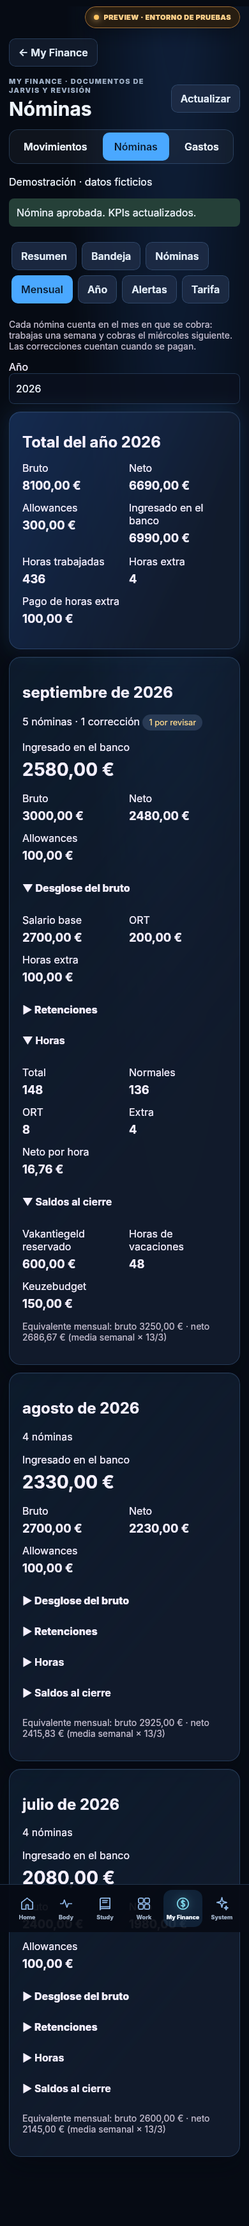
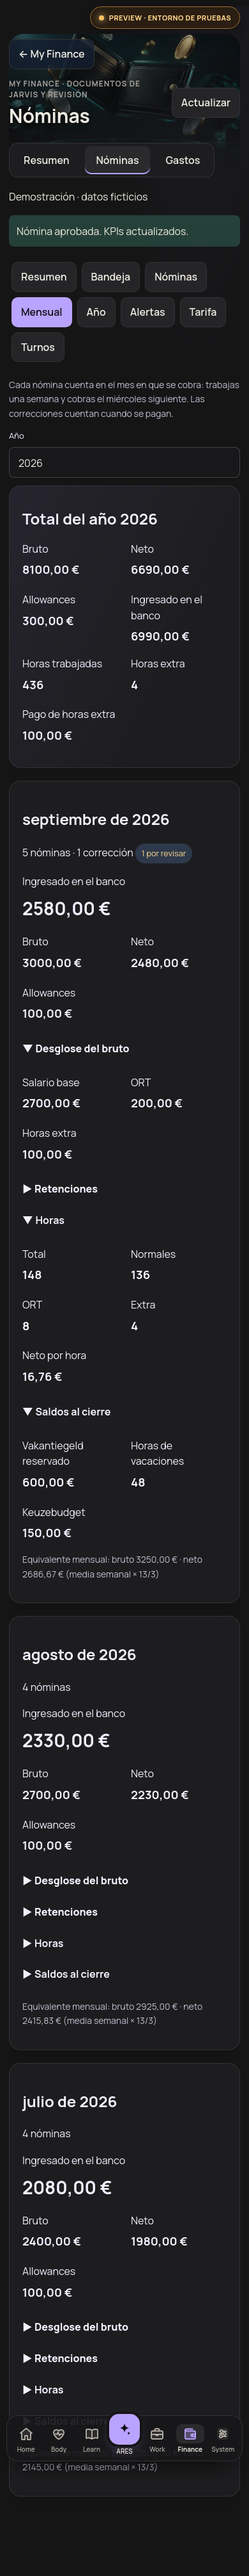
[claude] 2.40.0: salir de Ares fácil en el móvil y microapps con más aire
- Ares AI (móvil): botón "Salir" grande a la izquierda, cabecera bajo la barra de
  estado del iPhone (safe-area), barra inferior visible encima del chat, botón
  central como interruptor (aria-expanded) y la barra cierra Ares al cambiar de
  sección. Con teclado abierto la barra se oculta. ✕, Escape y atrás se mantienen.
- Nueva capa assets/rise-microapps-air.css (solo la microapp abierta): tarjetas
  20/28 px, textos >= 12 px, botones 44 px, campos 48 px a 16 px.
- E2E nuevo tests/e2e/ares-mobile-exit.mjs en CI. Caché v42-ares-air.

Claude-Session: https://claude.ai/code/session_015k3DX1NmMNurpEp6aoLjt2

diff --git a/microapps/ares-ai.js b/microapps/ares-ai.js
@@ -30,7 +30,7 @@ const node=(tag,cls,value)=>{const n=document.createElement(tag);if(cls)n.classN
 export function mountAresAI({supabase,getUser,navigate}){
  const launch=node("button","ares-fab","✧  Ares AI");launch.type="button";launch.hidden=true;launch.setAttribute("aria-label","Hablar con Ares AI");
  const panel=node("section","ares-chat");panel.hidden=true;panel.setAttribute("role","dialog");panel.setAttribute("aria-modal","true");panel.setAttribute("aria-label","Ares AI");
- panel.innerHTML='<header class="ares-chat-head"><div class="ares-avatar">✧</div><div><strong>Ares AI</strong><small>Tu asistente personal de RISE HUB</small></div><button type="button" class="ares-close" aria-label="Cerrar Ares AI">✕</button></header><div class="ares-chat-stream" role="log" aria-live="polite"></div><div class="ares-chat-suggestions"><button type="button" data-suggest="¿Cómo van mis proyectos?">Proyectos</button><button type="button" data-suggest="¿Qué tareas tengo pendientes?">Mis tareas</button><button type="button" data-suggest="¿Qué debo aprobar?">Aprobaciones</button><button type="button" data-suggest="¿Qué han hecho mis agentes?">Agentes</button><button type="button" data-suggest="¿En qué fase de desarrollo está RISE HUB?">Estado de desarrollo</button></div><form class="ares-chat-form"><label class="ares-sr" for="aresQuestion">Escribe a Ares AI</label><textarea id="aresQuestion" maxlength="500" rows="1" placeholder="Pregunta lo que quieras de tu Hub…" aria-label="Tu mensaje"></textarea><button type="submit" aria-label="Enviar">↑</button></form><p class="ares-chat-foot">Respuestas basadas en tu Hub · Sin IA generativa externa</p>';
+ panel.innerHTML='<header class="ares-chat-head"><button type="button" class="ares-back" aria-label="Salir de Ares AI"><span aria-hidden="true">←</span><span class="ares-back-text">Salir</span></button><div class="ares-avatar">✧</div><div><strong>Ares AI</strong><small>Tu asistente personal de RISE HUB</small></div><button type="button" class="ares-close" aria-label="Cerrar Ares AI">✕</button></header><div class="ares-chat-stream" role="log" aria-live="polite"></div><div class="ares-chat-suggestions"><button type="button" data-suggest="¿Cómo van mis proyectos?">Proyectos</button><button type="button" data-suggest="¿Qué tareas tengo pendientes?">Mis tareas</button><button type="button" data-suggest="¿Qué debo aprobar?">Aprobaciones</button><button type="button" data-suggest="¿Qué han hecho mis agentes?">Agentes</button><button type="button" data-suggest="¿En qué fase de desarrollo está RISE HUB?">Estado de desarrollo</button></div><form class="ares-chat-form"><label class="ares-sr" for="aresQuestion">Escribe a Ares AI</label><textarea id="aresQuestion" maxlength="500" rows="1" placeholder="Pregunta lo que quieras de tu Hub…" aria-label="Tu mensaje"></textarea><button type="submit" aria-label="Enviar">↑</button></form><p class="ares-chat-foot">Respuestas basadas en tu Hub · Sin IA generativa externa</p>';
  document.body.append(launch,panel);
  const stream=panel.querySelector(".ares-chat-stream"),input=panel.querySelector("textarea"),form=panel.querySelector("form");
  let owner=null,topic="",generation=0,busy=false,isOpen=false,aiEnabled=false,returnFocus=null;
@@ -39,13 +39,15 @@ export function mountAresAI({supabase,getUser,navigate}){
  function clear(){generation++;stream.replaceChildren();topic="";busy=false;input.value="";form.querySelector('[type="submit"]').disabled=false;}
  async function checkAI(){try{const res=await fetch("/api/ares-ai",{cache:"no-store",signal:AbortSignal.timeout(5000)});const data=res.ok?await res.json():{};aiEnabled=data.enabled===true;foot.textContent=aiEnabled?"OpenRouter/free activado · solo nombres y estados seleccionados de proyectos/tareas":"Consultas privadas sin IA externa · sin envío de datos a modelos externos";}catch{aiEnabled=false;foot.textContent="Consultas locales de tus registros";}}
  function setSession(){const id=getUser()?.id||null;if(id!==owner){owner=id;clear();}launch.hidden=!id;if(!id){panel.hidden=true;isOpen=false;document.body.classList.remove("ares-chat-open");}}
- function open(){setSession();if(!owner)return;if(!isOpen)returnFocus=document.activeElement;void checkAI();panel.hidden=false;isOpen=true;document.body.classList.add("ares-chat-open");fitViewport();if(!history.state?.aresChat)history.pushState({...(history.state||{}),aresChat:true},"");if(!stream.children.length)bubble("bot","Hola, soy Ares AI. Puedo consultar tus proyectos, tareas, revisiones y agentes a partir de los registros reales de RISE HUB. ¿Qué quieres saber?");if(!touch())input.focus();}
- function close({fromHistory=false}={}){if(!isOpen&&panel.hidden)return;if(panel.contains(document.activeElement))document.activeElement.blur();panel.hidden=true;isOpen=false;document.body.classList.remove("ares-chat-open");panel.style.removeProperty("height");panel.style.removeProperty("top");if(!fromHistory&&history.state?.aresChat)history.back();if(!touch()){const target=[returnFocus,document.querySelector('#bottomNav [data-open="ares-center"]'),launch].find(el=>el instanceof HTMLElement&&el!==document.body&&el.getClientRects().length&&getComputedStyle(el).visibility!=="hidden");target?.focus();}returnFocus=null;}
+ function open(){setSession();if(!owner)return;if(!isOpen)returnFocus=document.activeElement;void checkAI();panel.hidden=false;isOpen=true;document.body.classList.add("ares-chat-open");syncNav();fitViewport();if(!history.state?.aresChat)history.pushState({...(history.state||{}),aresChat:true},"");if(!stream.children.length)bubble("bot","Hola, soy Ares AI. Puedo consultar tus proyectos, tareas, revisiones y agentes a partir de los registros reales de RISE HUB. ¿Qué quieres saber?");if(!touch())input.focus();}
+ function close({fromHistory=false}={}){if(!isOpen&&panel.hidden)return;if(panel.contains(document.activeElement))document.activeElement.blur();panel.hidden=true;isOpen=false;document.body.classList.remove("ares-chat-open","ares-kb");syncNav();panel.style.removeProperty("height");panel.style.removeProperty("top");if(!fromHistory&&history.state?.aresChat)history.back();if(!touch()){const target=[returnFocus,document.querySelector('#bottomNav [data-open="ares-center"]'),launch].find(el=>el instanceof HTMLElement&&el!==document.body&&el.getClientRects().length&&getComputedStyle(el).visibility!=="hidden");target?.focus();}returnFocus=null;}
  // Móvil: sin foco automático (el teclado tapaba la cabecera y el botón de cerrar al terminar una respuesta),
  // el panel se ajusta al área visible cuando aparece el teclado y el gesto/botón "atrás" cierra el chat.
  function touch(){return matchMedia("(pointer:coarse)").matches;}
- function fitViewport(){const vv=window.visualViewport;if(!vv||!isOpen||!matchMedia("(max-width:650px)").matches){panel.style.removeProperty("height");panel.style.removeProperty("top");return;}panel.style.height=vv.height+"px";panel.style.top=vv.offsetTop+"px";}
- window.visualViewport?.addEventListener("resize",fitViewport);window.visualViewport?.addEventListener("scroll",fitViewport);
+ function navSpace(keyboard){const nav=document.getElementById("bottomNav");if(keyboard||!nav||nav.classList.contains("hidden"))return 0;const r=nav.getBoundingClientRect();return r.height?Math.max(0,Math.round(innerHeight-r.top+8)):0;}
+ // Móvil: la barra inferior sigue visible debajo del chat (su botón central lo cierra); con el teclado abierto se oculta.
+ function fitViewport(){const vv=window.visualViewport;const mobile=matchMedia("(max-width:650px)").matches;if(!isOpen||!mobile){panel.style.removeProperty("height");panel.style.removeProperty("top");document.body.classList.remove("ares-kb");return;}const h=vv?vv.height:innerHeight;const keyboard=h<innerHeight*0.75;document.body.classList.toggle("ares-kb",keyboard);panel.style.height=Math.max(240,h-navSpace(keyboard))+"px";panel.style.top=(vv?vv.offsetTop:0)+"px";}
+ window.visualViewport?.addEventListener("resize",fitViewport);window.visualViewport?.addEventListener("scroll",fitViewport);window.addEventListener("resize",fitViewport);
  window.addEventListener("popstate",()=>{if(isOpen)close({fromHistory:true});});
  function reset(){owner=null;clear();panel.hidden=true;launch.hidden=true;isOpen=false;document.body.classList.remove("ares-chat-open");}
  async function records(){const id=owner;if(!id||id!==getUser()?.id)throw Error("Inicia sesión para preguntar.");const {data,error}=await supabase.from("hub_records").select("id,domain,record_type,title,status,occurred_at,payload,source,requires_review").eq("owner_id",id).in("record_type",ARES_QUERY_TYPES).order("occurred_at",{ascending:false}).limit(500);if(error)throw Error("La consulta privada ha fallado: "+error.message);if(id!==getUser()?.id)throw Error("La sesión ha cambiado.");return data||[];}
@@ -107,10 +109,12 @@ export function mountAresAI({supabase,getUser,navigate}){
    }
   }catch(e){bubble("bot","No he podido realizar la acción: "+String(e.message||e));button.disabled=false;}
  }
- launch.addEventListener("click",open);panel.querySelector(".ares-close").addEventListener("click",()=>close());
+ launch.addEventListener("click",open);panel.querySelector(".ares-close").addEventListener("click",()=>close());panel.querySelector(".ares-back").addEventListener("click",()=>close());
  panel.querySelectorAll("[data-suggest]").forEach(b=>b.addEventListener("click",()=>void send(b.dataset.suggest)));
  form.addEventListener("submit",e=>{e.preventDefault();void send(input.value);});
  input.addEventListener("keydown",e=>{if(e.key==="Enter"&&!e.shiftKey){e.preventDefault();form.requestSubmit();}});
  window.addEventListener("keydown",e=>{if(e.key==="Escape"&&isOpen)close();if((e.metaKey||e.ctrlKey)&&e.key.toLowerCase()==="k"&&owner){e.preventDefault();isOpen?close():open();}});
- return {open,close,reset,setSession,send};
+ function syncNav(){const b=document.querySelector('#bottomNav [data-open="ares-center"]');if(!b)return;b.setAttribute("aria-expanded",String(isOpen));b.setAttribute("aria-label",isOpen?"Ocultar Ares AI":"Abrir Ares AI");}
+ function toggle(){isOpen?close():open();}
+ return {open,close,toggle,isOpen:()=>isOpen,reset,setSession,send};
 }

diff --git a/sw.js b/sw.js
@@ -1,5 +1,5 @@
-const CACHE='renzo-hub-cloud-v41-unified';
-const CORE=['/microapps/registry.js','/microapps/personal-context.js','/microapps/home/body-summary.js','/microapps/finance/goals-panel.js','/microapps/finance/goals.js','/microapps/finance/networth-panel.js','/microapps/finance/networth.js','/microapps/payroll/balance-import.js','/microapps/payroll/amsterdam-time.js','/microapps/payroll/dst-timeline.js','/microapps/payroll/shifts.js','/microapps/payroll/shift-tracker.js','/microapps/payroll/shift-schedule.js','/microapps/payroll/shift-extras.js','/microapps/payroll/weekly-pay.js','/assets/shift-tracker.css','/microapps/work/roadmap.js','/assets/rise-roadmap.css','/microapps/selflearn/selflearn.css','/microapps/selflearn/engine.js','/microapps/selflearn/view.js','/microapps/selflearn/courses/nl.js','/microapps/selflearn/courses/en.js','/microapps/selflearn/fsrs-entry.js','/microapps/selflearn/fsrs-bundle.js','/microapps/ares-ai.js','/microapps/ares-development.js','/assets/ares-chat.css','/microapps/ares-center/ares.js','/microapps/ares-center/ares.css','/microapps/finance/summary.js','/microapps/finance/insights.js','/microapps/finance/data.js','/microapps/finance/fixed.js','/microapps/finance/income.js','/microapps/finance/income-panel.js','/microapps/finance/budget.js','/microapps/finance/finance.css','/microapps/gastos/gastos.js','/microapps/gastos/categories.js','/microapps/gastos/gastos.css','/microapps/records.js','/microapps/xp-store.js','/microapps/ui.js','/microapps/errors.js','/microapps/backup/export.js','/microapps/skin/skin.js','/microapps/skin/inventory.js','/microapps/skin/photos.js','/microapps/notes/notes.js','/microapps/bank/ing-csv.js','/microapps/bank/bank-import-ui.js','/microapps/bank/revolut.js','/payroll.js','/payroll-upload-ui.js','/payroll-pdf.js','/payroll.css','/payroll-demo.js','/','/app.js','/profile.js','/phase1.js','/gym.js','/microapps/gym/insights.js','/microapps/gym/trends.js','/microapps/gym/body-map.js','/microapps/gym/shift-planner.js','/microapps/gym/unilateral.js','/microapps/gym/recovery.js','/microapps/gym/quick-set.js','/microapps/gym/plan-editor.js','/microapps/gym/goals.js','/microapps/gym/measurements.js','/microapps/gym/progression.js','/microapps/gym/ranks.js','/microapps/gym/exercise-info.js','/microapps/gym/rest-timer.js','/microapps/gym/onboarding.js','/microapps/gym/progress-photos.js','/microapps/gym/photos-view.js','/microapps/gym/onboarding-view.js','/microapps/gym/coach.js','/microapps/gym/wake-lock.js','/assets/gym-ascend.css','/news.js','/world.js','/world-extensions.js','/jarvis-ui.js','/manifest.webmanifest','/release.json','/assets/rise-theme.css','/assets/rise-home.css','/assets/rise-covers.css','/assets/rise/area-dutch-v1.webp','/assets/rise/area-finance-v1.webp','/assets/rise/area-logistics-v1.webp','/assets/rise/area-nutrition-v1.webp','/assets/rise/area-productivity-v1.webp','/assets/rise/area-skincare-v1.webp','/assets/rise/area-training-v1.webp','/assets/rise-monogram-v2.svg','/assets/rise-editorial.css','/microapps/command/palette.js','/assets/fonts/manrope-latin-v1.woff2','/assets/fonts/manrope-latin-ext-v1.woff2','/assets/rise-favicon-48-v2.png','/assets/rise-icon-180-v2.png','/assets/rise-icon-192-v2.png','/assets/rise-icon-512-v2.png','/assets/rise-icon-512-maskable-v2.png','/assets/rise/editorial-v2.jpg'];
+const CACHE='renzo-hub-cloud-v42-ares-air';
+const CORE=['/microapps/registry.js','/microapps/personal-context.js','/microapps/home/body-summary.js','/microapps/finance/goals-panel.js','/microapps/finance/goals.js','/microapps/finance/networth-panel.js','/microapps/finance/networth.js','/microapps/payroll/balance-import.js','/microapps/payroll/amsterdam-time.js','/microapps/payroll/dst-timeline.js','/microapps/payroll/shifts.js','/microapps/payroll/shift-tracker.js','/microapps/payroll/shift-schedule.js','/microapps/payroll/shift-extras.js','/microapps/payroll/weekly-pay.js','/assets/shift-tracker.css','/microapps/work/roadmap.js','/assets/rise-roadmap.css','/microapps/selflearn/selflearn.css','/microapps/selflearn/engine.js','/microapps/selflearn/view.js','/microapps/selflearn/courses/nl.js','/microapps/selflearn/courses/en.js','/microapps/selflearn/fsrs-entry.js','/microapps/selflearn/fsrs-bundle.js','/microapps/ares-ai.js','/microapps/ares-development.js','/assets/ares-chat.css','/microapps/ares-center/ares.js','/microapps/ares-center/ares.css','/microapps/finance/summary.js','/microapps/finance/insights.js','/microapps/finance/data.js','/microapps/finance/fixed.js','/microapps/finance/income.js','/microapps/finance/income-panel.js','/microapps/finance/budget.js','/microapps/finance/finance.css','/microapps/gastos/gastos.js','/microapps/gastos/categories.js','/microapps/gastos/gastos.css','/microapps/records.js','/microapps/xp-store.js','/microapps/ui.js','/microapps/errors.js','/microapps/backup/export.js','/microapps/skin/skin.js','/microapps/skin/inventory.js','/microapps/skin/photos.js','/microapps/notes/notes.js','/microapps/bank/ing-csv.js','/microapps/bank/bank-import-ui.js','/microapps/bank/revolut.js','/payroll.js','/payroll-upload-ui.js','/payroll-pdf.js','/payroll.css','/payroll-demo.js','/','/app.js','/profile.js','/phase1.js','/gym.js','/microapps/gym/insights.js','/microapps/gym/trends.js','/microapps/gym/body-map.js','/microapps/gym/shift-planner.js','/microapps/gym/unilateral.js','/microapps/gym/recovery.js','/microapps/gym/quick-set.js','/microapps/gym/plan-editor.js','/microapps/gym/goals.js','/microapps/gym/measurements.js','/microapps/gym/progression.js','/microapps/gym/ranks.js','/microapps/gym/exercise-info.js','/microapps/gym/rest-timer.js','/microapps/gym/onboarding.js','/microapps/gym/progress-photos.js','/microapps/gym/photos-view.js','/microapps/gym/onboarding-view.js','/microapps/gym/coach.js','/microapps/gym/wake-lock.js','/assets/gym-ascend.css','/assets/rise-microapps-air.css','/news.js','/world.js','/world-extensions.js','/jarvis-ui.js','/manifest.webmanifest','/release.json','/assets/rise-theme.css','/assets/rise-home.css','/assets/rise-covers.css','/assets/rise/area-dutch-v1.webp','/assets/rise/area-finance-v1.webp','/assets/rise/area-logistics-v1.webp','/assets/rise/area-nutrition-v1.webp','/assets/rise/area-productivity-v1.webp','/assets/rise/area-skincare-v1.webp','/assets/rise/area-training-v1.webp','/assets/rise-monogram-v2.svg','/assets/rise-editorial.css','/microapps/command/palette.js','/assets/fonts/manrope-latin-v1.woff2','/assets/fonts/manrope-latin-ext-v1.woff2','/assets/rise-favicon-48-v2.png','/assets/rise-icon-180-v2.png','/assets/rise-icon-192-v2.png','/assets/rise-icon-512-v2.png','/assets/rise-icon-512-maskable-v2.png','/assets/rise/editorial-v2.jpg'];
 self.addEventListener('install',e=>e.waitUntil(caches.open(CACHE).then(c=>c.addAll(CORE)).then(()=>fetch('/api/supabase-config',{cache:'no-store'}).then(r=>r.ok?caches.open(CACHE).then(c=>c.put('/api/supabase-config',r)):null).catch(()=>null))));
 self.addEventListener('message',e=>{if(e.data?.type==='SKIP_WAITING')self.skipWaiting();});
 self.addEventListener('activate',e=>e.waitUntil(caches.keys().then(keys=>Promise.all(keys.filter(k=>k.startsWith('renzo-hub-')&&k!==CACHE).map(k=>caches.delete(k)))).then(()=>self.clients.claim())));

diff --git a/assets/rise-microapps-air.css b/assets/rise-microapps-air.css
@@ -1,0 +1,39 @@
+/* RISE HUB 2.40.0 · microapps con más aire.
+   Trae al repo la mejora de densidad del prototipo de Lovable (18 oct): más espacio interior, textos
+   pequeños legibles, filas y campos cómodos de tocar. Solo presentación, sin cambiar estructura,
+   datos ni comportamiento. Se limita a la microapp abierta (nunca a Home ni a la navegación) y se
+   carga la última para ganar a las capas anteriores sin !important. */
+
+html body #appShell .page.active:not(#home) { line-height: 1.55; }
+html body #appShell .page.active:not(#home) :where(p, li) { line-height: 1.6; }
+
+/* Cabecera de cada microapp: título y descripción menos amontonados */
+html body #appShell .page.active:not(#home) :where(.back, .microapp-back) { min-height: 44px; margin-bottom: 14px; display: inline-flex; align-items: center; }
+html body #appShell .page.active:not(#home) .top { margin-bottom: 24px; }
+html body #appShell .page.active:not(#home) .top h1 { margin-top: 6px; line-height: 1.2; }
+
+/* Tarjetas: más espacio interior y separación entre bloques */
+html body #appShell .page.active:not(#home) :where(.card, .app, .product, .worldhero, .study-next, .study-extras) { padding: 20px; }
+html body #appShell .page.active:not(#home) :where(:not(.worldgrid, .mx-stack, .reportgrid, .products, .apps, .pay-grid, .quick)) > :where(.card, .app, .hero) + :where(.card, .app, .hero) { margin-top: 20px; }
+html body #appShell .page.active:not(#home) :where(.worldgrid, .mx-stack, .reportgrid, .products, .apps, .pay-grid) { gap: 20px; }
+html body #appShell .page.active:not(#home) :where(.worldform, .sl-form, .car-form, .quick, .sl-units, .sl-stats, .actions, .step) { gap: 14px; }
+
+/* Textos pequeños: nada por debajo de 12 px; notas y ayudas a 13 px */
+html body #appShell .page.active:not(#home) :where(small, .small, .worldhint, .hint, .sl-note, .sl-exam, label) { font-size: 13px; line-height: 1.5; }
+html body #appShell .page.active:not(#home) :where(.ey, .worldbadge, .sl-unit-go, .microapp-context, .pill, code, .sl-skills span, .product > div > span) { font-size: 12px; line-height: 1.45; }
+
+/* Objetivos táctiles y filas cómodas */
+html body #appShell .page.active:not(#home) :where(button, [role="button"], a.button) { min-height: 44px; }
+html body #appShell .page.active:not(#home) summary { min-height: 48px; padding-block: 12px; }
+html body #appShell .page.active:not(#home) .sl-unit { gap: 12px; padding: 16px; min-height: 64px; }
+
+/* Formularios: campos más altos y separados; 16 px evita el zoom automático de iOS */
+html body #appShell .page.active:not(#home) :where(input:not([type="checkbox"], [type="radio"], [type="range"], [type="file"], [type="color"]), select) { min-height: 48px; font-size: 16px; padding: 12px 14px; box-sizing: border-box; }
+html body #appShell .page.active:not(#home) textarea { min-height: 96px; font-size: 16px; padding: 12px 14px; line-height: 1.5; }
+html body #appShell .page.active:not(#home) label > :where(input, select, textarea) { margin-top: 8px; }
+
+@media (min-width: 1024px) {
+  html body #appShell .page.active:not(#home) :where(.card, .app, .product, .worldhero, .study-next, .study-extras) { padding: 28px; }
+  html body #appShell .page.active:not(#home) :where(.worldgrid, .mx-stack, .reportgrid, .products, .apps, .pay-grid) { gap: 24px; }
+  html body #appShell .page.active:not(#home) :where(input:not([type="checkbox"], [type="radio"], [type="range"], [type="file"], [type="color"]), select, textarea) { font-size: 15px; }
+}

diff --git a/assets/ares-chat.css b/assets/ares-chat.css
@@ -6,7 +6,7 @@
 .ares-chat-head{display:flex;align-items:center;gap:12px;padding:21px 20px;background:linear-gradient(110deg,rgba(35,82,145,.55),rgba(12,28,49,.94));border-bottom:1px solid rgba(109,177,246,.2)}
 .ares-avatar{display:grid;place-items:center;flex:none;height:43px;width:43px;border:1px solid rgba(205,191,255,.4);border-radius:15px;background:rgba(186,163,254,.14);color:#cdbfff;font-size:24px;box-shadow:0 0 18px rgba(186,163,254,.15)}
 .ares-chat-head strong{display:block;font-size:17px;font-weight:900;letter-spacing:-.01em}.ares-chat-head small{display:block;margin-top:3px;font-size:11px;color:#bdb8ae;line-height:1.4}
-.ares-close{margin-left:auto;flex:none;height:41px;width:41px;display:grid;place-items:center;background:rgba(21,21,22,.6);border:1px solid rgba(109,177,246,.25);border-radius:13px;color:#e7e2f2;cursor:pointer}
+.ares-close{margin-left:auto;flex:none;height:44px;width:44px;display:grid;place-items:center;background:rgba(21,21,22,.6);border:1px solid rgba(109,177,246,.25);border-radius:13px;color:#e7e2f2;cursor:pointer}
 .ares-chat-stream{min-height:0;overflow-y:auto;display:flex;flex-direction:column;gap:17px;padding:25px 20px 18px;scrollbar-width:thin;scrollbar-color:rgba(186,163,254,.35) transparent}
 .ares-msg{max-width:90%;display:flex;flex-direction:column;gap:10px;flex-shrink:0}
 .ares-msg-bot{align-self:flex-start}.ares-msg-user{align-self:flex-end}
@@ -25,4 +25,18 @@
 .ares-chat button:focus-visible,.ares-fab:focus-visible{outline:2px solid #cdbfff;outline-offset:2px}
 @media(min-width:1024px){.ares-fab{bottom:32px}}
 @media(max-width:650px){.ares-chat{inset:0;width:100vw;height:100dvh;max-height:none;border:0;border-radius:0;padding-bottom:env(safe-area-inset-bottom)}.ares-chat-head{padding:16px 17px}.ares-chat-stream{padding:20px 15px}.ares-chat-form{margin:0 12px}.ares-chat-suggestions{padding-left:12px}.ares-fab{right:15px;bottom:calc(82px + env(safe-area-inset-bottom))}}
+/* 2.40.0 · salir de Ares con facilidad en el móvil: botón "Salir" grande a la izquierda (zona del pulgar),
+   cabecera por debajo de la barra de estado del iPhone (la app usa black-translucent) y barra inferior visible. */
+.ares-back{display:none;flex:none;align-items:center;gap:6px;min-height:44px;padding:0 14px 0 10px;margin-right:2px;border:1px solid rgba(205,191,255,.35);border-radius:13px;background:rgba(21,21,22,.6);color:#f0ece3;font:inherit;font-size:14px;font-weight:800;cursor:pointer}
+.ares-back span[aria-hidden]{font-size:18px;line-height:1}
+@media(max-width:650px){
+ .ares-chat{bottom:auto;padding-bottom:0}
+ .ares-chat-head{padding:calc(10px + env(safe-area-inset-top)) 14px 12px;gap:10px}
+ .ares-back{display:inline-flex}
+ .ares-avatar{height:38px;width:38px;font-size:20px}
+ .ares-chat-head small{display:none}
+ .ares-chat-foot{padding-bottom:10px}
+ body.ares-chat-open:not(.ares-kb) #bottomNav.nav{z-index:130}
+ body.ares-kb #bottomNav.nav{visibility:hidden}
+}
 @media(prefers-reduced-motion:reduce){.ares-fab{transition:none!important}.ares-fab:hover{transform:none}}

diff --git a/app.js b/app.js
@@ -132,6 +132,7 @@ function setSync(text,kind="ok"){
 }
 function go(id,restore=false){
   if(id==="ares-center"){aresAI.open();return;}
+  if(aresAI.isOpen())aresAI.close(); // ir a otra sección desde la barra cierra Ares
   if(!document.getElementById(id))id="home";
   for(const [appId,api] of Object.entries(apps)){try{if(appId===id)api.open?.();else api.close?.();}catch(error){console.error(error);}}
   if(AREAS[id])world.render(id);
@@ -148,7 +149,8 @@ function go(id,restore=false){
   requestAnimationFrame(()=>window.scrollTo(0,scrollY));
 }
 // Un solo listener para todo [data-open], también para el HTML que las microapps pintan después.
-document.addEventListener("click",event=>{const b=event.target.closest("[data-open]");if(b&&SECTION_IDS.includes(b.dataset.open))go(b.dataset.open);});
+// El botón central de Ares funciona como interruptor: si el chat está abierto, lo cierra.
+document.addEventListener("click",event=>{const b=event.target.closest("[data-open]");if(!b||!SECTION_IDS.includes(b.dataset.open))return;if(b.dataset.open==="ares-center"&&aresAI.isOpen()){aresAI.close();return;}go(b.dataset.open);});
 let navSaveTimer;
 window.addEventListener("scroll",()=>{if(!user)return;const uid=user.id;clearTimeout(navSaveTimer);navSaveTimer=setTimeout(()=>{if(user?.id!==uid)return;const saved=readJSON(`renzo-nav:${uid}`,{});writeJSON(`renzo-nav:${uid}`,{...saved,scrollY:window.scrollY});},180);},{passive:true});
 

diff --git a/index.html b/index.html
@@ -244,6 +244,7 @@ body.microapp-open #appShell.shell{padding-bottom:calc(34px + env(safe-area-inse
 <link rel="stylesheet" href="/assets/ares-chat.css">
 <link rel="stylesheet" href="/assets/rise-editorial.css">
 <link rel="stylesheet" href="/assets/gym-ascend.css">
+<link rel="stylesheet" href="/assets/rise-microapps-air.css">
 <script type="module" src="/app.js"></script>
 </body>
 </html>

diff --git a/RENZO-HUB-CURRENT.md b/RENZO-HUB-CURRENT.md
@@ -1,5 +1,12 @@
 # RISE HUB (antes Renzo Hub) · versión vigente
 
+## 2.40.0 (2026-10-18) · Ares fácil de cerrar en el móvil y microapps con más aire · PR hacia staging (sin desplegar)
+
+- **Ares AI en el móvil:** botón **Salir** grande a la izquierda de la cabecera (zona del pulgar) además del ✕; la cabecera queda por debajo de la barra de estado del iPhone (la app usa `black-translucent`, antes el ✕ quedaba debajo de la hora y la isla). La barra inferior sigue visible encima del chat y su botón central es un **interruptor** (abre y cierra, con `aria-expanded`); tocar otra sección de la barra cierra Ares y la abre. Con el teclado abierto la barra se oculta y el chat ocupa la zona visible. Escape, ✕ y "atrás" siguen funcionando y los mensajes se conservan.
+- **Microapps con más aire** (`assets/rise-microapps-air.css`, se carga la última y solo afecta a la microapp abierta, nunca a Home ni a la navegación): tarjetas con 20 px de margen interior en móvil y 28 px en escritorio, más separación entre bloques, textos pequeños a 12–13 px (antes había de 10,5–11 px), interlineado 1,55–1,6, botones de al menos 44 px, desplegables de 48 px y campos de formulario de 48 px con letra de 16 px (evita el zoom de iOS). Medido a 390 px: textos < 12 px pasan de 231 a 0 en las 14 secciones; sin scroll horizontal.
+- Trae al repo lo hecho en el prototipo de Lovable (18 oct) re-implementado en CSS propio, sin cambiar estructura, datos ni comportamiento. Toca la presentación de Gym, Skin, Food y SelfLearn (áreas de ChatGPT) solo a través de esta capa común: avisado en `docs/COLABORACION-IA.md`.
+- E2E nuevo `tests/e2e/ares-mobile-exit.mjs` (Chromium y WebKit, en CI). Caché `renzo-hub-cloud-v42-ares-air`. Sin migraciones ni cambios de esquema.
+
 ## 2.39.0 (2026-10-18) · Versión unificada: producción + staging · PR hacia staging (sin desplegar)
 
 - **Por qué:** el PR #83 publicó en producción (2.36.1) la interfaz editorial con correcciones de QA, sin pasar por staging. Staging tenía esa misma interfaz más SelfLearn 3 y el Gym completo (2.34–2.38). Hacía falta unir las dos ramas antes de que staging pueda pasar a main.

diff --git a/docs/COLABORACION-IA.md b/docs/COLABORACION-IA.md
@@ -36,6 +36,7 @@ Este archivo es el canal de coordinación: cada IA lo lee antes de empezar y lo 
   - El comentario de `microapps/gym/goals.js` dice "never upload to Supabase implicitly" y `gym.js` sí sincroniza (de forma explícita al guardar): actualizar el comentario.
 - **Claude → ChatGPT (17 oct, SelfLearn 3):** rama `feature/selflearn-babbel`. Toca `world.js` (montaje de SelfLearn, fusión local/nube y **sincronización solo de registros cambiados**: afecta a todas las áreas que guardan con `save()` de `world.js`), `index.html` (texto de la tarjeta SelfLearn), `sw.js`, `release.json` y `RENZO-HUB-CURRENT.md`. Se elimina `microapps/selflearn/catalog.js`. Si editas un registro de `world.js` fuera de `save()`, ponle `updatedAt` para que la fusión lo respete.
 - **Claude → ChatGPT (17 oct, interfaz editorial 2.35.0):** rama `feature/rise-editorial-ui`. Integra en la app real el rediseño de Lovable (Renzo Sandbox) como capa `assets/rise-editorial.css` + monograma v2 + barra nueva con Ares central. Remapea colores azules en `rise-covers.css`, `rise-home.css`, `ares-chat.css`, `finance.css` y `gastos.css`; cambia `index.html` (nav, hero, iconos), `manifest.webmanifest` y `sw.js`. Para nuevas pantallas: usar `var(--accent)` iris y `var(--card)`, no azules fijos.
+- **Claude → ChatGPT (18 oct, 2.40.0):** nueva capa común `assets/rise-microapps-air.css` (más espacio, textos ≥ 12 px, campos de 48 px) que también afecta a la presentación de Gym, Skin, Food y SelfLearn. No toca vuestros archivos; si alguna pantalla vuestra queda peor, se ajusta en esa capa o se excluye con un selector. Ares AI: botón "Salir", barra inferior visible y botón central como interruptor.
 - **ChatGPT → Claude:** (pendiente)
 
 ## Pendiente de integrar (módulos nuevos para `sw.js`)
